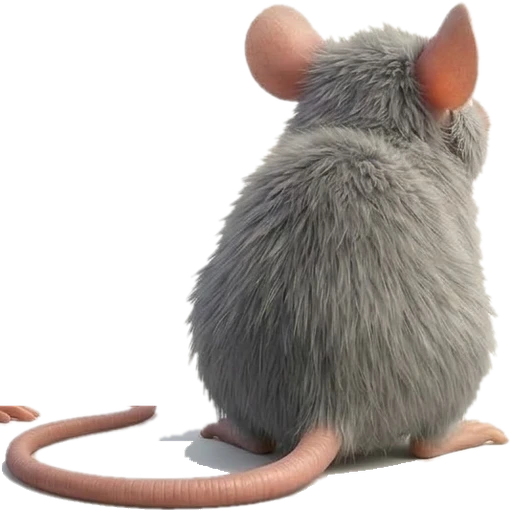
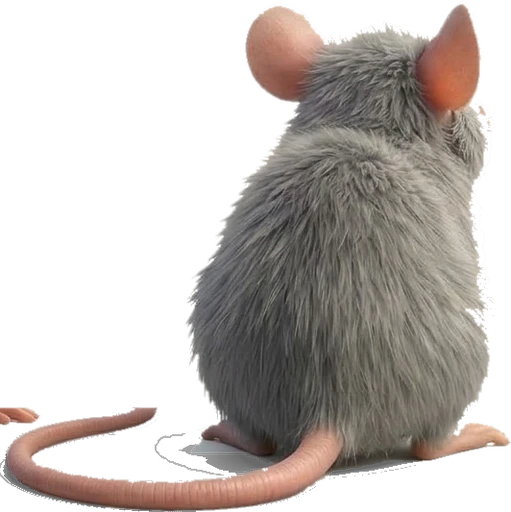
Notre-Dame : les bêtes mieux détourées (plus de fond blanc, l'ombre au sol devient transparente) ; des fenêtres sur les murs de côté des immeubles
Claude-Session: https://claude.ai/code/session_01WYc8bcxVUTnPR8YQxCHawi

diff --git a/public/notredame.js b/public/notredame.js
@@ -268,6 +268,8 @@ function construireNotreDame(A, L, scene) {
     { const Hh = H - HR, g = uvBox(new THREE.BoxGeometry(W, Hh, D), W, Hh, D, 4); mesh(g, MM, 0, HR + Hh / 2, -D / 2); }
     { const Hh = H - HR, g = new THREE.PlaneGeometry(W, Hh), uv = g.attributes.uv, nb = Math.max(3, Math.round(W / 2.75)); for (let i = 0; i < uv.count; i++) uv.setXY(i, uv.getX(i) * nb / DOSD.B, uv.getY(i) * nE / DOSD.F + (k % 4) / 4); g.rotateY(Math.PI);
       const DM = DOSM[te] || (DOSM[te] = (() => { const m = mat({ map: DOSD.tm, color: te, roughness: .9, emissive: 0xffd890, emissiveMap: DOSD.tl, emissiveIntensity: 0 }); NUIT.push([m, 0, .9]); return m; })()); mesh(g, DM, 0, HR + Hh / 2, -D - .03); }   /* (10.177 : le dos, côté cour, avec ses fenêtres) */
+    { const Hh = H - HR, nb = Math.max(2, Math.round(D / 2.75));   /* (10.180 : les murs de côté aussi, avec leurs fenêtres — on les voit au bout des rangées, et d'en haut) */
+      for (const s of [-1, 1]) { const g = new THREE.PlaneGeometry(D, Hh), uv = g.attributes.uv; for (let i = 0; i < uv.count; i++) uv.setXY(i, uv.getX(i) * nb / DOSD.B + .5 * (s > 0 ? 1 : 0), uv.getY(i) * nE / DOSD.F + ((k + 2) % 4) / 4); g.rotateY(s * Math.PI / 2); mesh(g, DOSM[te], s * (W / 2 + .03), HR + Hh / 2, -D / 2); } }
     { const DB = D - PR, g = uvBox(new THREE.BoxGeometry(W, HR, DB), W, HR, DB, 4); mesh(g, MM, 0, HR / 2, -PR - DB / 2); }
     const n = Math.max(3, Math.round(W / 2.75)), pas = W / n, xs = [...Array(n)].map((_, i) => -W / 2 + pas * (i + .5)), porte = type === "long" ? Math.floor(n / 2) : -1, navy = cafe && (NOMF ? !!NOMF[3] : k % 3 === 0), sc = cafe ? 0x8a1c1c : 0x2a4a38, pc = navy ? 0x1a2440 : cafe ? 0x5a1414 : 0x23382c;   /* (10.149 : certains restaurants, comme celui de la photo : la boiserie bleu nuit, ses moulures dorées) */
     // le rez-de-chaussée : les bossages, les boutiques, leurs stores, la porte cochère
